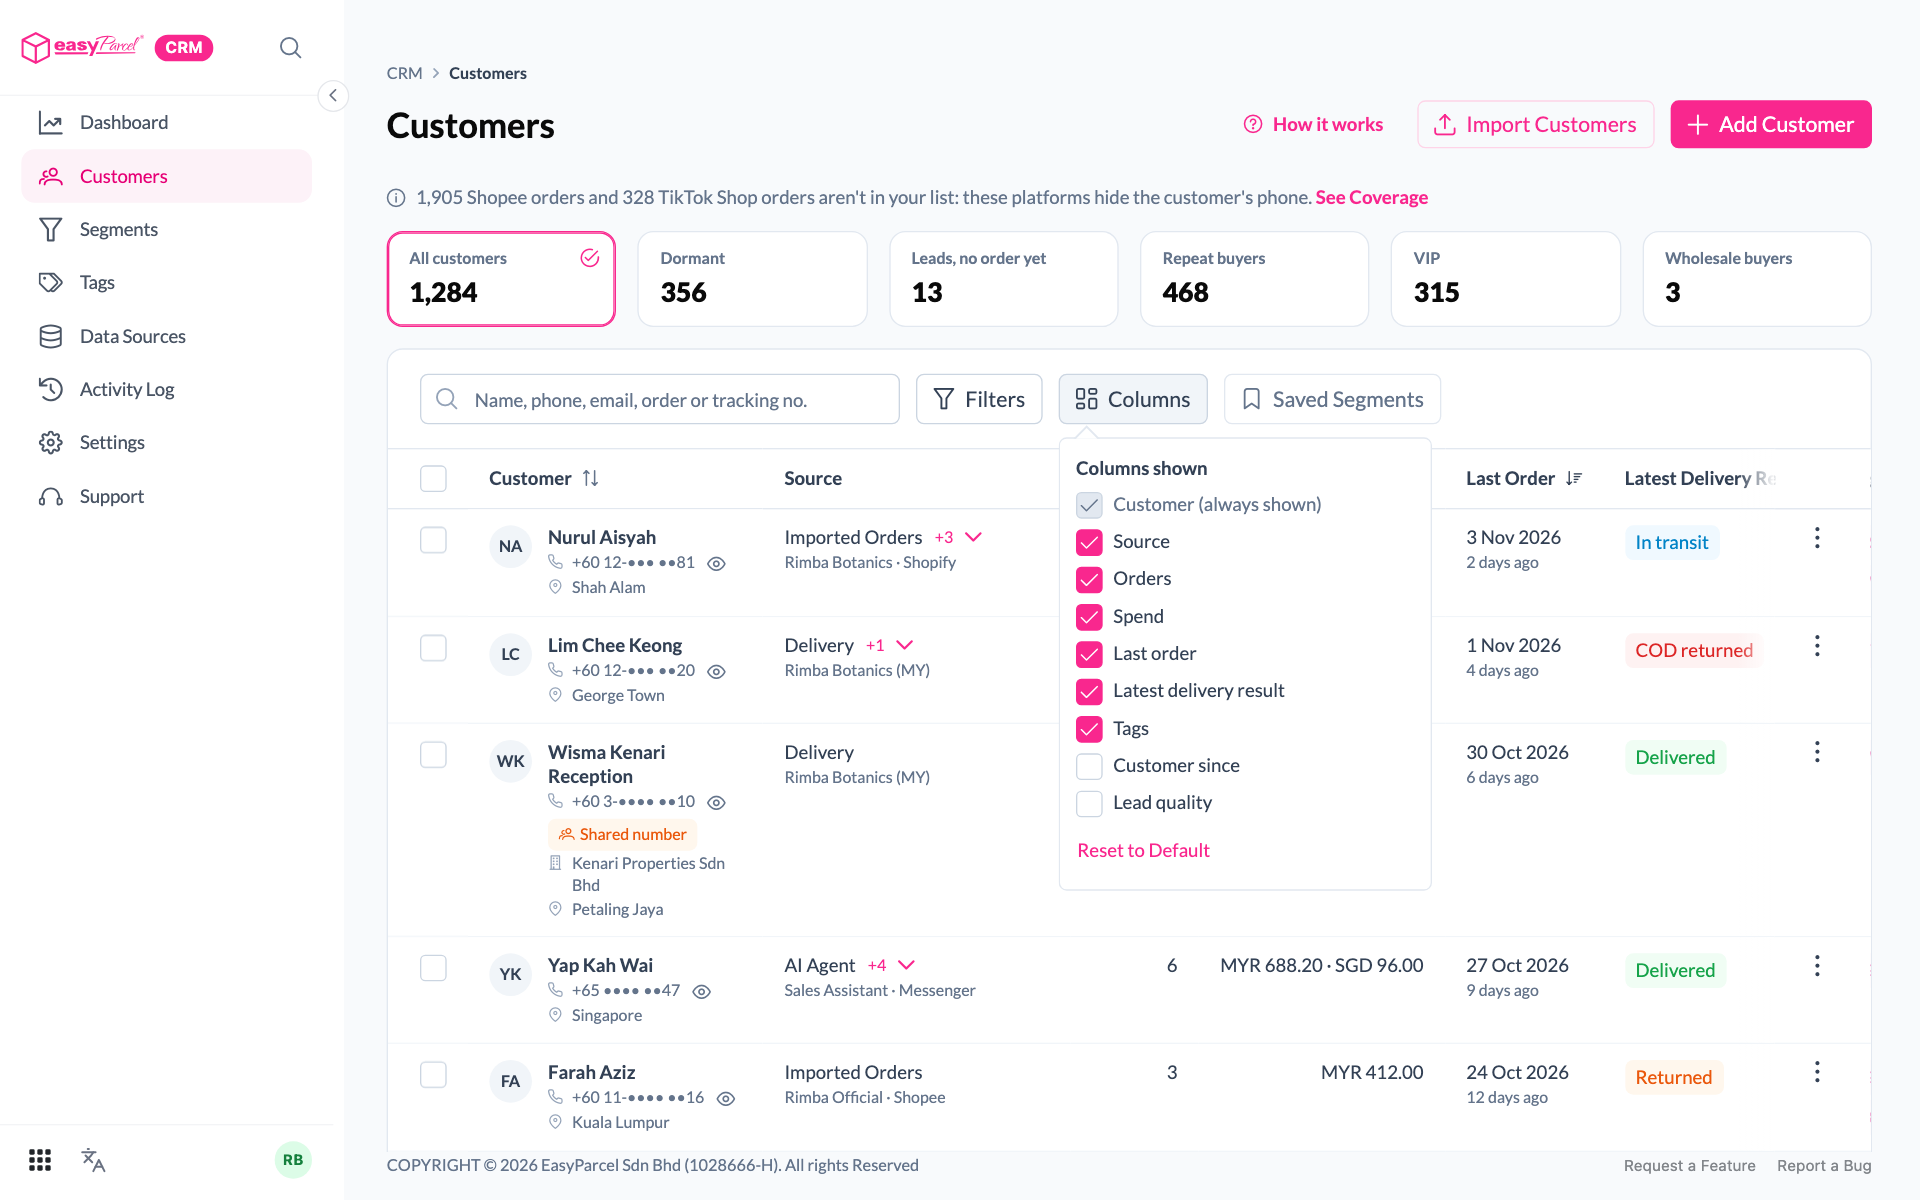
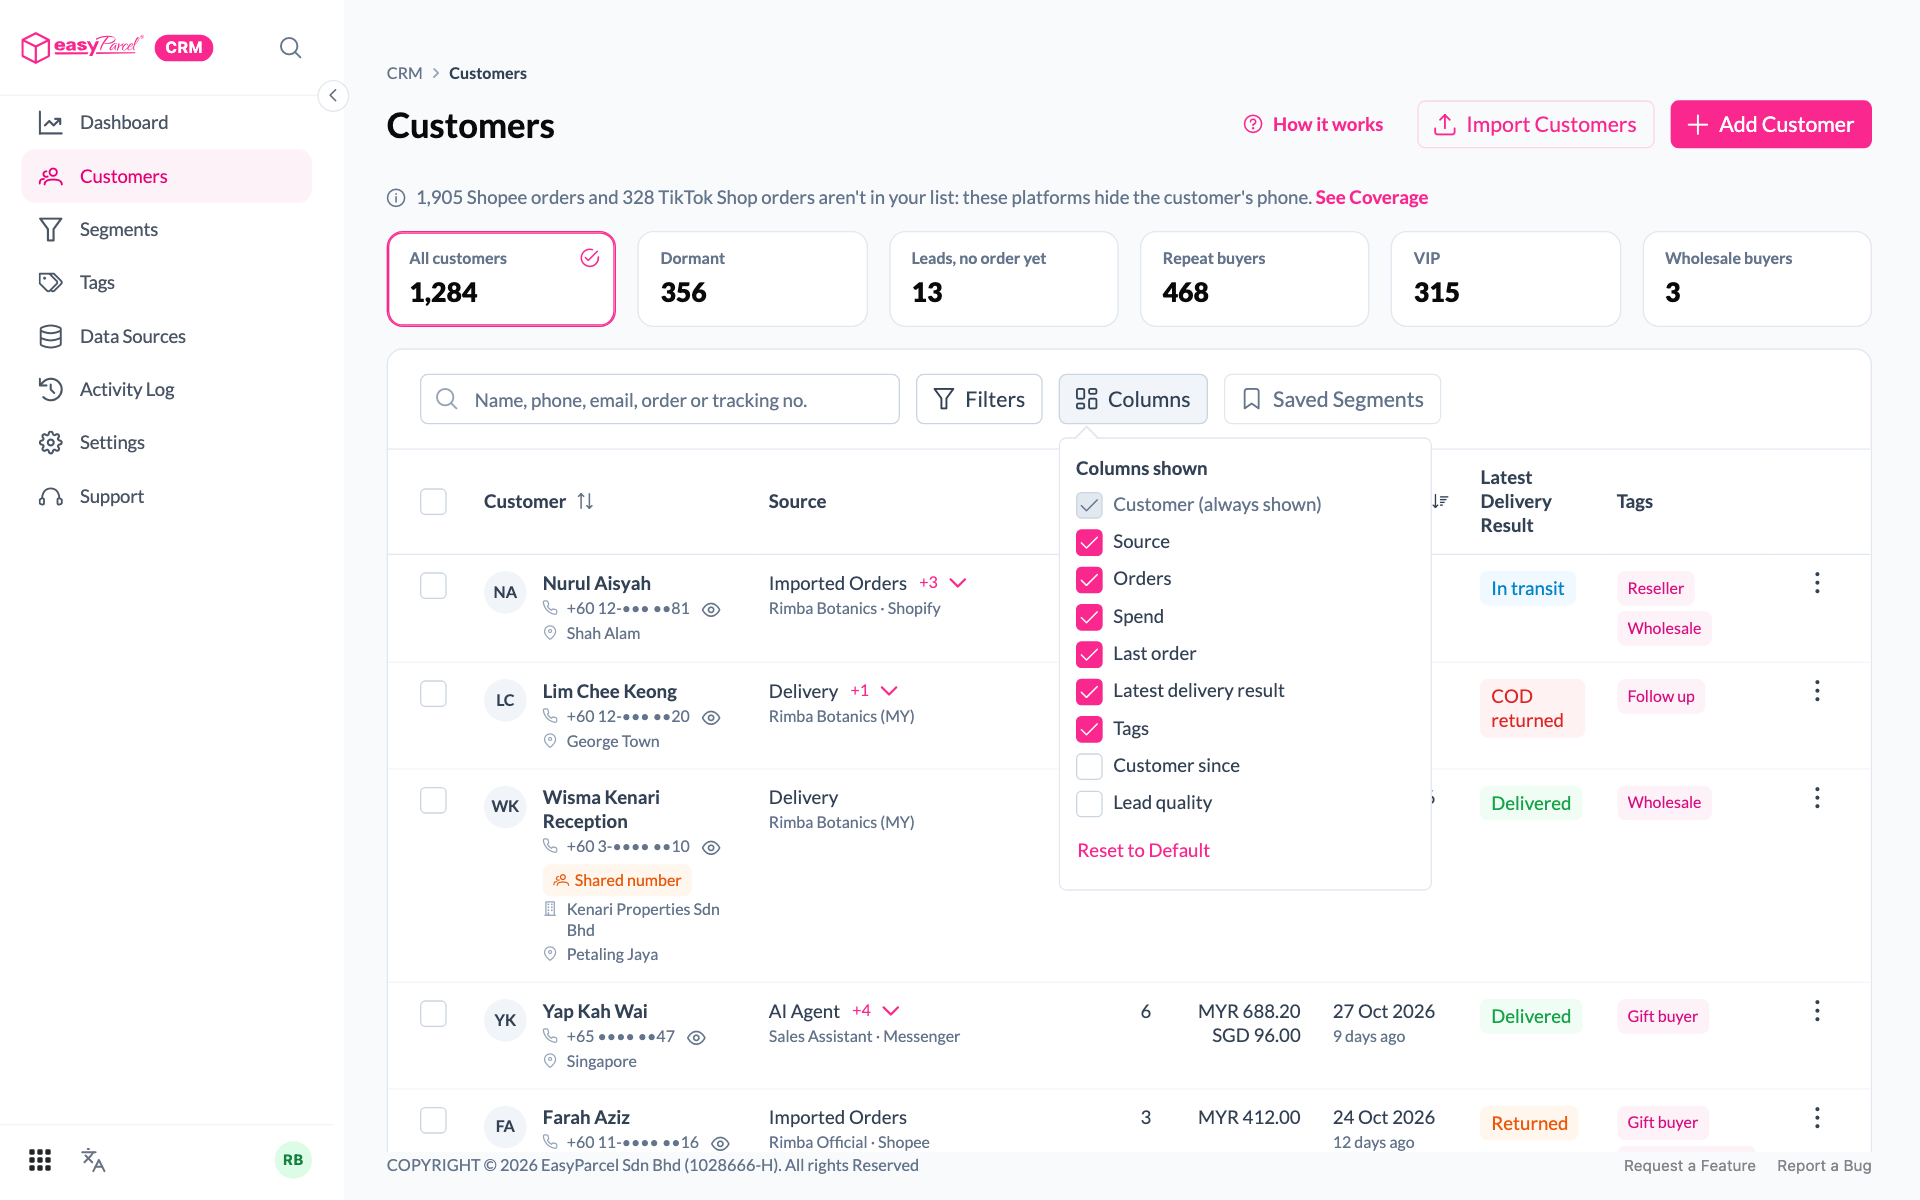
Re-shoot CRM guide screenshots after the customer list fixes
Twelve shots that show the customer list, or a dialog over it, are re-shot:
the default columns now fit at 1440 px, spend stacks one currency per line,
and Import Confirm's Address Book help no longer says "Off for imports".
The guide now says that box "starts unticked".

diff --git a/CustomerPlus/CRM/Guideline.md b/CustomerPlus/CRM/Guideline.md
@@ -487,7 +487,7 @@ Click **Next**.
 ### Step 4: Confirm
 
 1. Optionally, **Tag everyone in this import**, for example `Bazaar Oct 2026`, so you can find them later.
-2. Tick **Also save to Address Book** if you want new customers with a complete address saved as receivers. It is off for imports.
+2. Tick **Also save to Address Book** if you want new customers with a complete address saved as receivers. It starts unticked.
 3. Tick **I confirm I'm allowed to use the data in this file**.
 4. Click **Import … Customers**.
 
